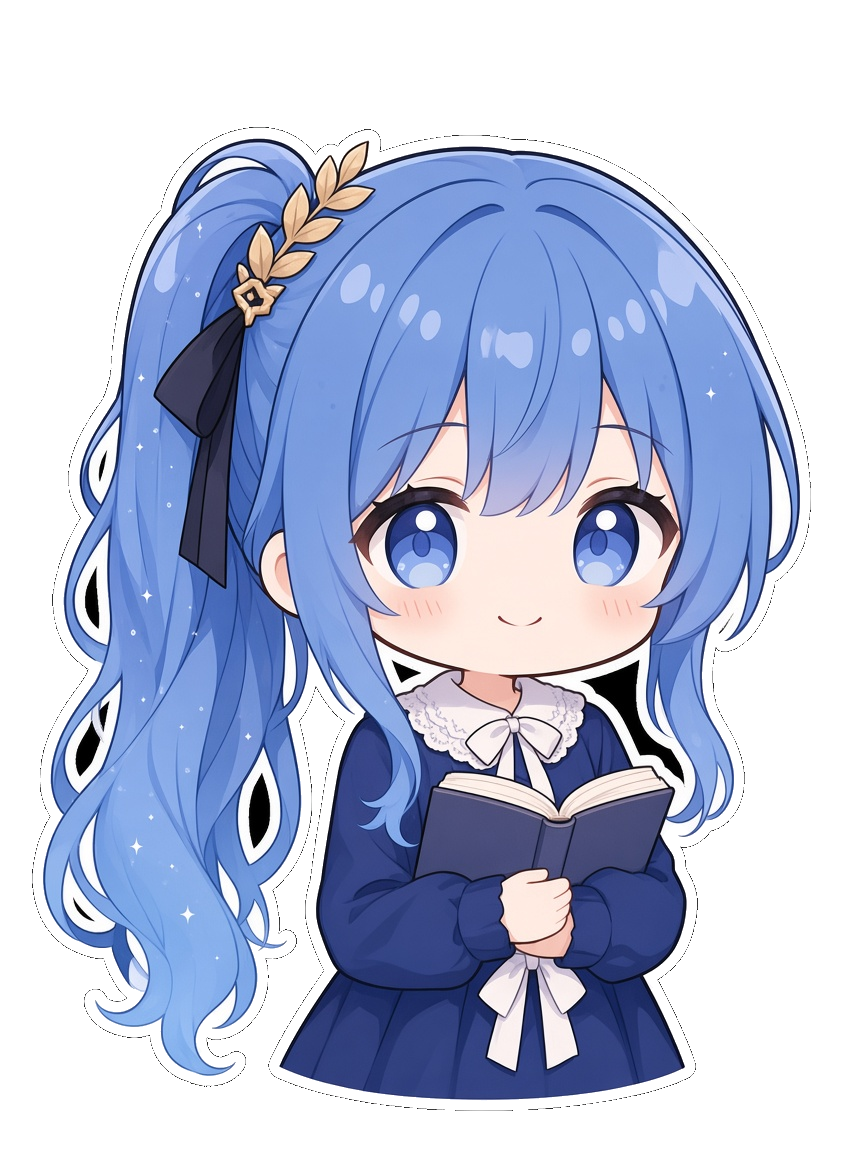
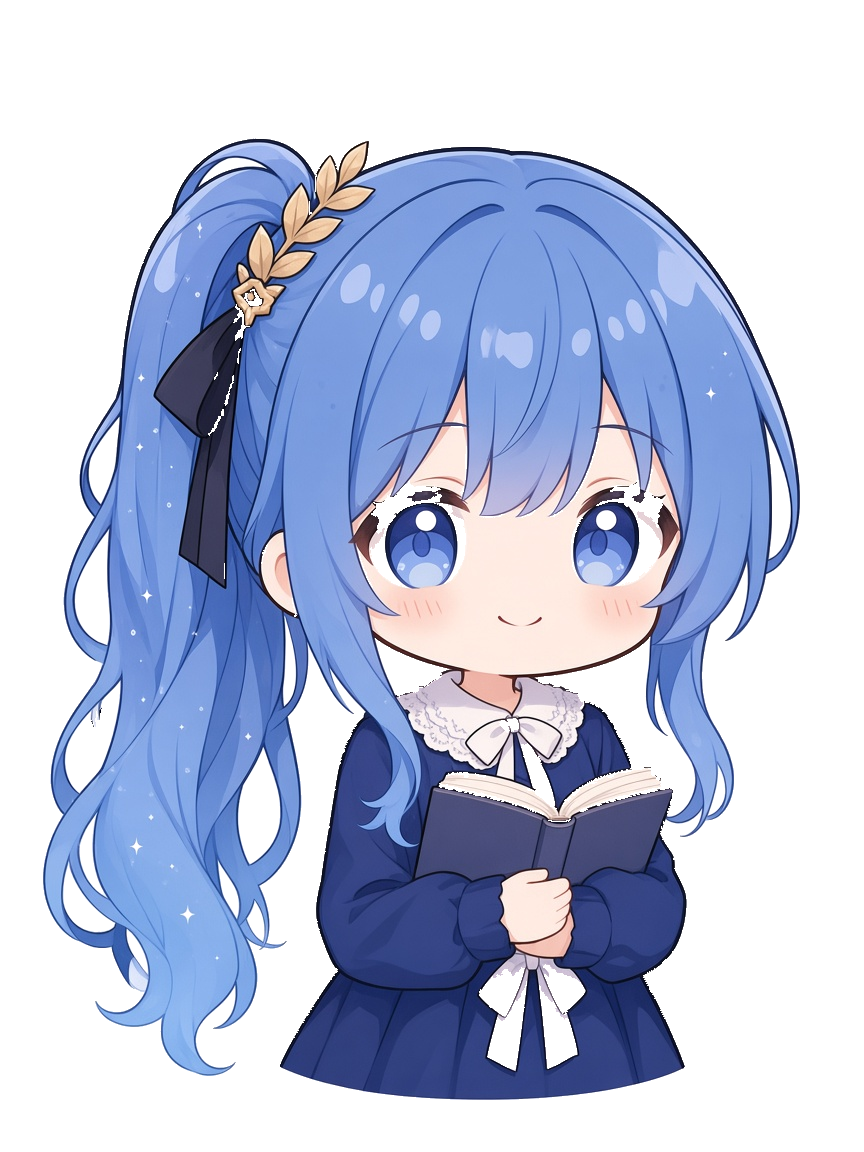
Clean Luno and Hachi sprites so they match the other companions.

diff --git a/my-project/static/app.js b/my-project/static/app.js
@@ -261,7 +261,7 @@
     stateData.companion_name = row.label_ja || row.label_en || row.id;
     if (luna && luna.setCompanion) luna.setCompanion(row);
     const sprite = document.getElementById("lunaSprite");
-    if (sprite && row.preview) sprite.src = row.preview;
+    if (sprite && row.preview) sprite.src = row.preview + (row.preview.includes("?") ? "&" : "?") + "v=20260909h";
     const who = document.getElementById("companionWho");
     if (who) who.textContent = row.label_en || row.label_ja || "LUNA";
     const careWho = document.getElementById("careTimelineWho");
@@ -271,7 +271,7 @@
       remind.textContent = (row.label_ja || row.label_en || "ルナ") + "が今日の気分を聞きたいよ";
     }
     document.querySelectorAll(".nav-luna").forEach((img) => {
-      img.src = row.preview || img.src;
+      img.src = (row.preview || img.src) + ((row.preview || img.src).includes("?") ? "&" : "?") + "v=20260909h";
       img.alt = row.label_en || row.label_ja || "LUNA";
     });
     const msg = document.getElementById("message");
@@ -306,6 +306,8 @@
             c.id +
             '"><img src="' +
             (c.preview || "") +
+            ((c.preview || "").includes("?") ? "&" : "?") +
+            "v=20260909h" +
             '" alt=""><span>' +
             (c.label_ja || c.id) +
             "</span><em>" +

diff --git a/my-project/static/app.html b/my-project/static/app.html
@@ -1963,9 +1963,9 @@
     </div>
   </div>
   <script src="/static/auth-common.js"></script>
-  <script src="/static/live2d/luna-avatar.js?v=20260909b"></script>
+  <script src="/static/live2d/luna-avatar.js?v=20260909h"></script>
   <script src="/static/world.js?v=20260903c"></script>
   <script src="/static/character_doll.js?v=20260903b"></script>
-  <script src="/static/app.js?v=20260909g"></script>
+  <script src="/static/app.js?v=20260909h"></script>
 </body>
 </html>

diff --git a/my-project/static/live2d/luna-avatar.js b/my-project/static/live2d/luna-avatar.js
@@ -32,7 +32,7 @@
     const base = String(row.base || `/static/live2d/${prefix}-expressions`).replace(/\/$/, "");
     const out = {};
     EXPR_KEYS.forEach((name) => {
-      out[name] = `${base}/${prefix}-${name}.png`;
+      out[name] = `${base}/${prefix}-${name}.png?v=20260909h`;
     });
     return out;
   }

diff --git a/my-project/cutout_companion_sprites.py b/my-project/cutout_companion_sprites.py
@@ -92,6 +92,182 @@ def _eat_white_rim(im: Image.Image, rounds: int = 10, white: int = 232) -> None:
             px[x, y] = (r, g, b, 0)
 
 
+def _chroma(r: int, g: int, b: int) -> int:
+    return max(r, g, b) - min(r, g, b)
+
+
+def _eat_neutral_sticker_rim(im: Image.Image, rounds: int = 28, min_luma: int = 155, max_chroma: int = 16) -> int:
+    """Remove the grey/white sticker stroke. Leaves warm cream clothes and colored hair."""
+    w, h = im.size
+    px = im.load()
+    eaten = 0
+    for _ in range(rounds):
+        victims = []
+        for y in range(h):
+            for x in range(w):
+                r, g, b, a = px[x, y]
+                if a == 0:
+                    continue
+                if min(r, g, b) < min_luma:
+                    continue
+                if _chroma(r, g, b) > max_chroma:
+                    continue
+                edge = False
+                for nx, ny in ((x + 1, y), (x - 1, y), (x, y + 1), (x, y - 1)):
+                    if nx < 0 or ny < 0 or nx >= w or ny >= h or px[nx, ny][3] == 0:
+                        edge = True
+                        break
+                if edge:
+                    victims.append((x, y))
+        if not victims:
+            break
+        for x, y in victims:
+            r, g, b, _ = px[x, y]
+            px[x, y] = (r, g, b, 0)
+            eaten += 1
+    return eaten
+
+
+def _eat_grey_plate_crumbs(im: Image.Image, rounds: int = 10, max_luma: int = 48, max_chroma: int = 10) -> int:
+    """Clear leftover dark-grey plate specks in hair gaps (not navy clothes)."""
+    w, h = im.size
+    px = im.load()
+    eaten = 0
+    for _ in range(rounds):
+        victims = []
+        for y in range(h):
+            for x in range(w):
+                r, g, b, a = px[x, y]
+                if a == 0:
+                    continue
+                if max(r, g, b) > max_luma:
+                    continue
+                if _chroma(r, g, b) > max_chroma:
+                    continue
+                edge = False
+                for nx, ny in ((x + 1, y), (x - 1, y), (x, y + 1), (x, y - 1)):
+                    if nx < 0 or ny < 0 or nx >= w or ny >= h or px[nx, ny][3] == 0:
+                        edge = True
+                        break
+                if edge:
+                    victims.append((x, y))
+        if not victims:
+            break
+        for x, y in victims:
+            r, g, b, _ = px[x, y]
+            px[x, y] = (r, g, b, 0)
+            eaten += 1
+    return eaten
+
+
+def _drop_tiny_specks(im: Image.Image, max_size: int = 80) -> int:
+    """Delete tiny leftover islands that are not part of the body."""
+    w, h = im.size
+    px = im.load()
+    seen = bytearray(w * h)
+    dropped = 0
+    for y0 in range(h):
+        for x0 in range(w):
+            i0 = y0 * w + x0
+            if seen[i0] or px[x0, y0][3] == 0:
+                continue
+            q = deque([(x0, y0)])
+            seen[i0] = 1
+            comp = [(x0, y0)]
+            large = False
+            while q:
+                x, y = q.popleft()
+                for nx, ny in ((x + 1, y), (x - 1, y), (x, y + 1), (x, y - 1)):
+                    if nx < 0 or ny < 0 or nx >= w or ny >= h:
+                        continue
+                    ni = ny * w + nx
+                    if seen[ni] or px[nx, ny][3] == 0:
+                        continue
+                    seen[ni] = 1
+                    q.append((nx, ny))
+                    if large:
+                        continue
+                    comp.append((nx, ny))
+                    if len(comp) > max_size:
+                        large = True
+                        comp = []
+            if not large and comp:
+                for x, y in comp:
+                    r, g, b, _ = px[x, y]
+                    px[x, y] = (r, g, b, 0)
+                    dropped += 1
+    return dropped
+
+
+def _punch_enclosed_plate(im: Image.Image, min_size: int = 12, max_size: int = 9000) -> int:
+    """Clear leftover black/white plate trapped inside hair loops."""
+    w, h = im.size
+    px = im.load()
+
+    def is_plate(r, g, b, a) -> bool:
+        if a == 0:
+            return False
+        if _chroma(r, g, b) > 14:
+            return False
+        return max(r, g, b) <= 60 or min(r, g, b) >= 185
+
+    seen = bytearray(w * h)
+    punched = 0
+    for y0 in range(h):
+        for x0 in range(w):
+            i0 = y0 * w + x0
+            if seen[i0]:
+                continue
+            r, g, b, a = px[x0, y0]
+            if not is_plate(r, g, b, a):
+                seen[i0] = 1
+                continue
+            q = deque([(x0, y0)])
+            seen[i0] = 1
+            cells = [(x0, y0)]
+            sx = x0
+            sy = y0
+            while q:
+                x, y = q.popleft()
+                for nx, ny in ((x + 1, y), (x - 1, y), (x, y + 1), (x, y - 1)):
+                    if nx < 0 or ny < 0 or nx >= w or ny >= h:
+                        continue
+                    ni = ny * w + nx
+                    if seen[ni]:
+                        continue
+                    rr, gg, bb, aa = px[nx, ny]
+                    if is_plate(rr, gg, bb, aa):
+                        seen[ni] = 1
+                        q.append((nx, ny))
+                        cells.append((nx, ny))
+                        sx += nx
+                        sy += ny
+                    else:
+                        seen[ni] = 1 if aa == 0 else seen[ni]
+            n = len(cells)
+            cx = sx / n
+            cy = sy / n
+            side_hair = cx < w * 0.34 or cx > w * 0.66
+            upper = cy < h * 0.62
+            small = n < 2200
+            if min_size <= n <= max_size and (side_hair or upper or small):
+                for x, y in cells:
+                    r, g, b, _ = px[x, y]
+                    px[x, y] = (r, g, b, 0)
+                punched += n
+    return punched
+
+
+def refine_sticker(path: Path) -> str:
+    im = Image.open(path).convert("RGBA")
+    rim = _eat_neutral_sticker_rim(im)
+    crumbs = _eat_grey_plate_crumbs(im)
+    holes = _punch_enclosed_plate(im)
+    specks = _drop_tiny_specks(im)
+    im.save(path, "PNG")
+    return f"rim={rim} crumbs={crumbs} holes={holes} specks={specks}"
+
+
 def cutout(path: Path) -> str:
     im = Image.open(path).convert("RGBA")
     corners = _corners(im)
